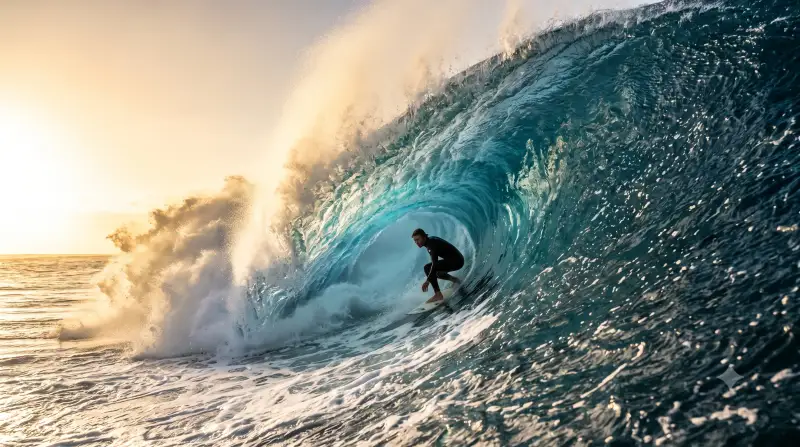
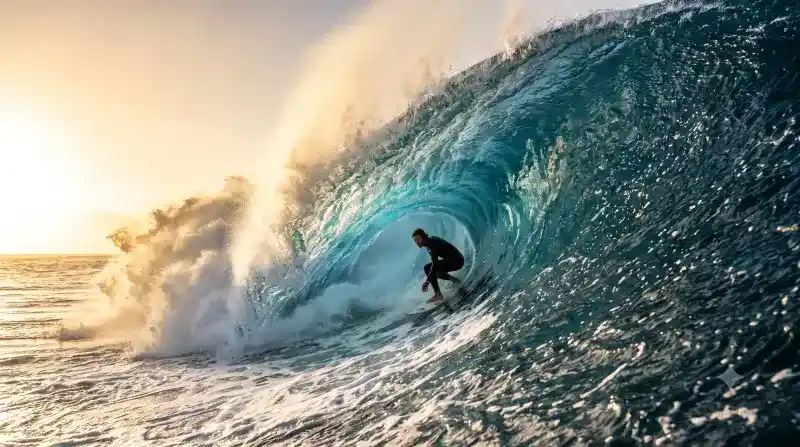
v10

Changed region(s): [[0.3125, 0.9888, 0.3438, 1.0], [0.2812, 0.9597, 0.3125, 0.9888]]

diff --git a/src/components/layout/Footer.jsx b/src/components/layout/Footer.jsx
@@ -13,8 +13,8 @@ export default function Footer() {
             <img
               src={LOGO_URL}
               alt="Hotel Lobitos Restaurant &amp; Surf Academy"
-              width={300}
-              height={92}
+              width={288}
+              height={88}
               loading="lazy"
             />
           </div>
